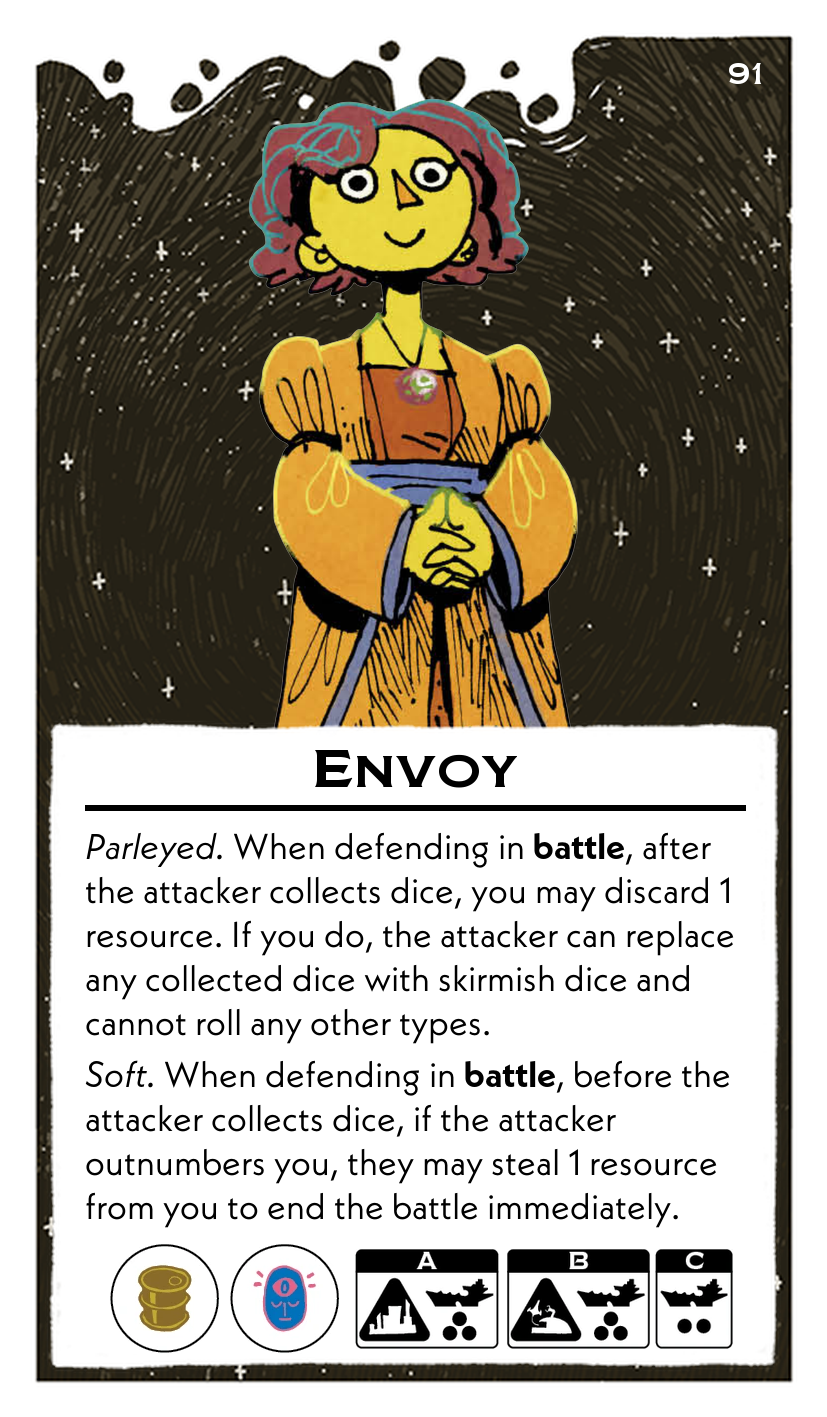
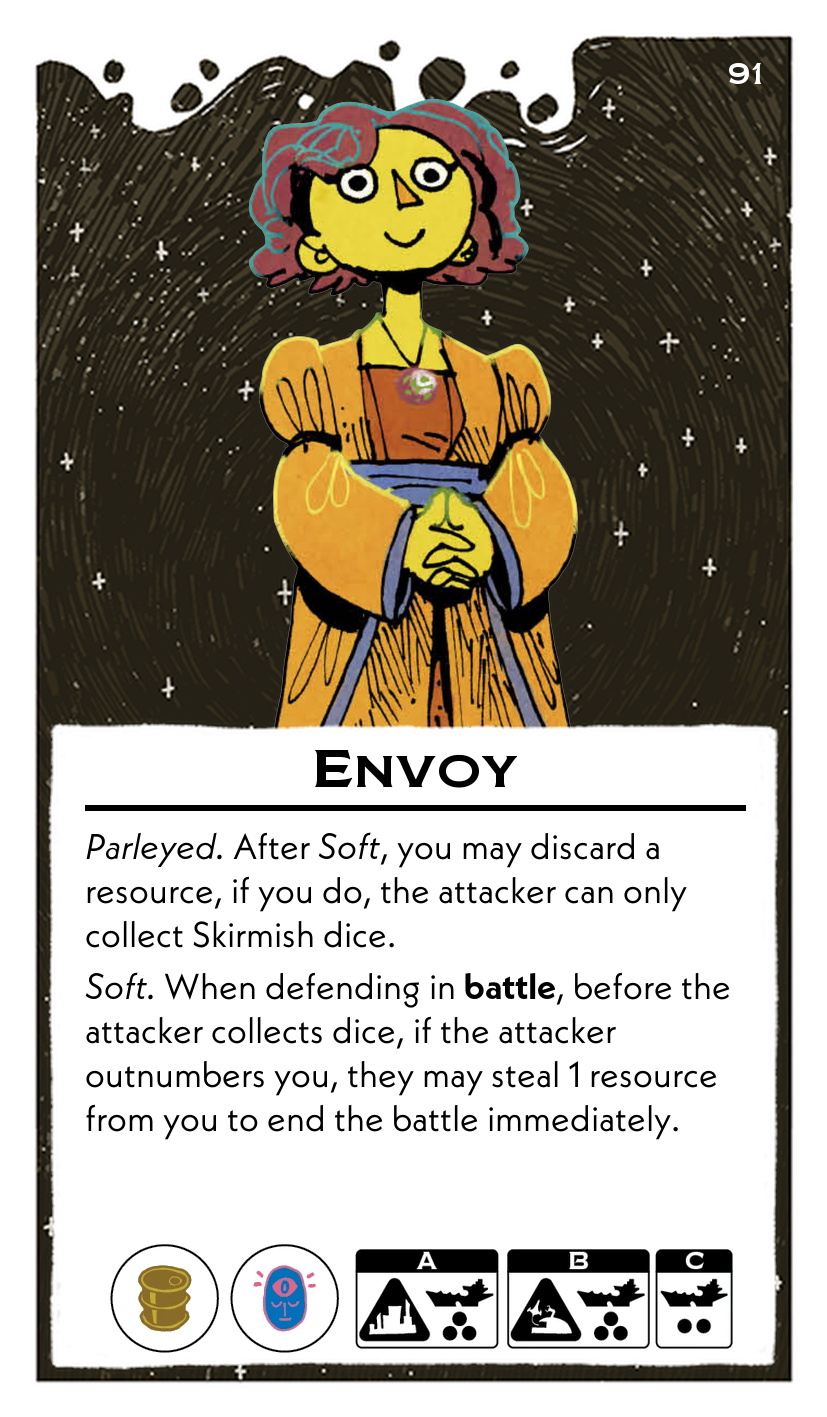
b

Changed region(s): [[0.0907, 0.59, 0.8767, 0.8694]]

diff --git a/scripts/leadersFormatted.py b/scripts/leadersFormatted.py
@@ -1391,7 +1391,7 @@ leaders = [
     {
         "name": "Envoy",
         "abilities": (
-            "*Parleyed.* When defending in **battle**, after the attacker collects dice, you may discard 1 resource. If you do, the attacker can replace any collected dice with skirmish dice and cannot roll any other types.\n"
+            "*Parleyed.* After *Soft*, you may discard a resource, if you do, the attacker can only collect Skirmish dice.\n"
             "*Soft.* When defending in **battle**, before the attacker collects dice, if the attacker outnumbers you, they may steal 1 resource from you to end the battle immediately."
         ),
         "resources": ["Fuel", "Psionic"],
@@ -1423,7 +1423,7 @@ leaders = [
     {
         "name": "Sollicitor",
         "abilities": (
-            "*Entreating.* When you **declare** **an** **ambition**, you may ask a Rival for a suit. If they have a card of that suit, they must give you the highest card of that suit they have. If they gave you one, give one back.\n"
+            "*Entreating.* When you **declare** **an** **ambition**, you may ask a Rival for a suit, they must give you the highest numbered card of that suit they have. If they did, give them an action card back.\n"
             "*Compelled.* When you lead, you must **declare** **an** **ambition**."
         ),
         "resources": ["Relic", "Fuel"],
@@ -1479,28 +1479,28 @@ leaders = [
     #     "body_font_size": 18
     # },
     # # Dice-mechanic leaders (one per requested mechanic)
-    {
-        "name": "Setmaker",
-        "abilities": (  
-            "*Jackpot.* When you roll only skirmish dice, if all of them hit gain the reward of the amount you rolled and all lower ones:"
-            "*1: damage a defending ship (1/2)"
-            "*2: gain a resource matching the system (1/4)"
-            "*3: all your hits count as keys instead (1/8)"
-            "*4: (1/16)"
-            "*5: all dice hit and roll again (1/32)"
-            "*6: deal 1 extra hit (1/2)"
-            "* Any amount of times in **battle**, you may damage and attacking ship to reroll a dice, then increase its cost by 1 this battle."
-            "You can only collect Skirmish dice."
-            "At the end of each battle, deal self hits equal to the amount of dice that missed."
-            ),
-        "resources": ["Material", "Fuel"],
-        "setup": {
-            "A": {"ships": 3, "building": "city"},
-            "B": {"ships": 3, "building": "starport"},
-            "C": {"ships": 2, "building": "None"}
-        },
-        "body_font_size": 18
-    },
+    # {
+    #     "name": "Setmaker",
+    #     "abilities": (  
+    #         "*Jackpot.* When you roll only skirmish dice, if all of them hit gain the reward of the amount you rolled and all lower ones:\n"
+    #         "1: damage a defending ship (1/2)\n"
+    #         "2: gain a resource matching the system (1/4)\n"
+    #         "3: all your hits count as keys instead (1/8)\n"
+    #         "4: (1/16)\n"
+    #         "5: all dice hit and roll again (1/32)\n"
+    #         "6: Destroy all defending ships\n"
+    #         "Any amount of times in **battle**, you may damage and attacking ship to reroll a dice, then increase its cost by 1 this battle.\n"
+    #         "You can only collect Skirmish dice.\n"
+    #         "At the end of each **battle**, deal self hits equal to the amount of dice that missed.\n"
+    #         ),
+    #     "resources": ["Material", "Fuel"],
+    #     "setup": {
+    #         "A": {"ships": 3, "building": "city"},
+    #         "B": {"ships": 3, "building": "starport"},
+    #         "C": {"ships": 2, "building": "None"}
+    #     },
+    #     "body_font_size": 12.7
+    # },
     # {
     #     "name": "Volley",
     #     "abilities": (
